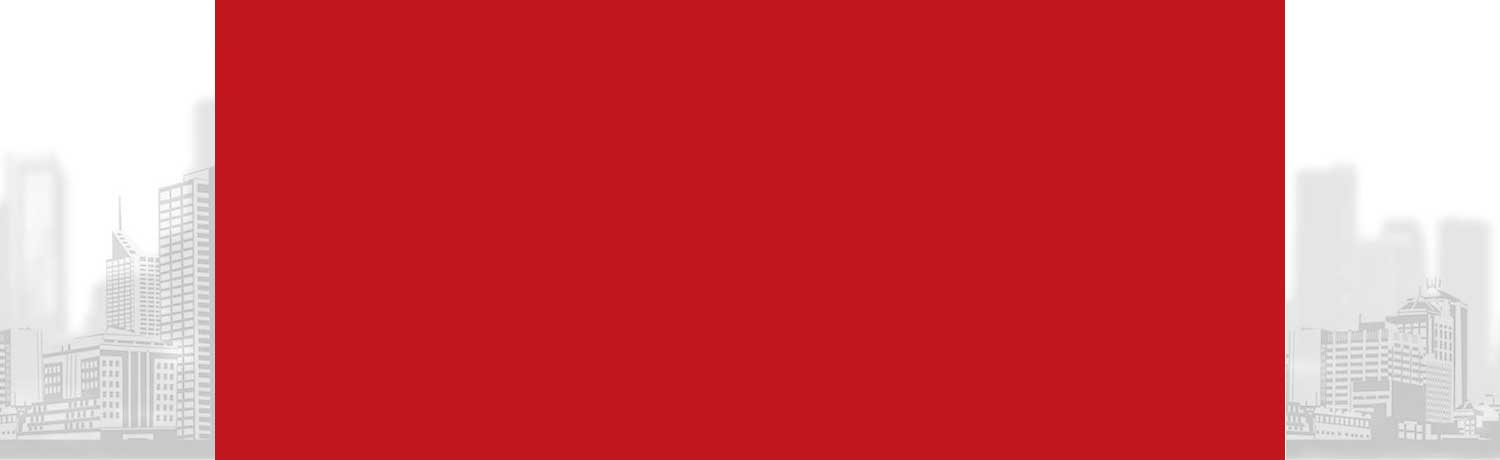
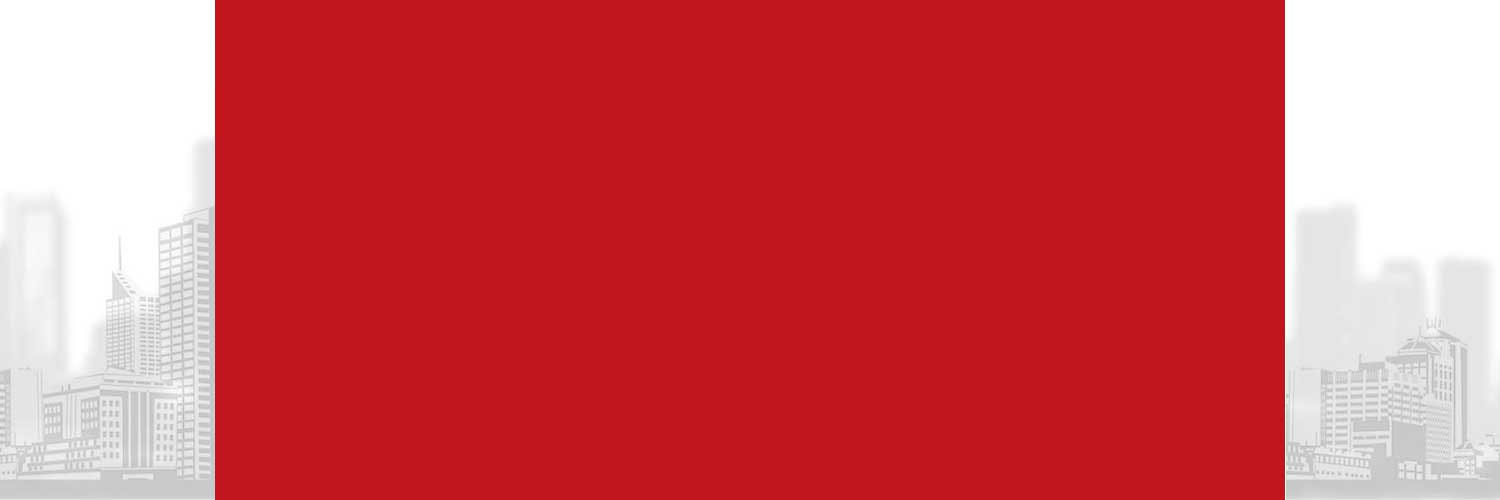
proi

diff --git a/public/themes/default/views/pages/detail.blade.php b/public/themes/default/views/pages/detail.blade.php
@@ -152,6 +152,14 @@
 
     #main-content{
         display: block;
+        max-height: 495px;
+        height:495px;
+        background-position: bottom;
+    }
+
+    #content-block{
+        max-height: 495px;
+        height:495px;
     }
 
     .button-row{
@@ -504,7 +512,7 @@
                 <table class="table" id="fin" style="width:100%;margin-bottom:0px;">
                     <thead>
                         <tr>
-                            <th colspan="2" class="header" style="text-align:left;font-style:italic;font-size:16px;font-weight:normal;">
+                            <th colspan="2" class="header" style="text-align:left;font-style:italic;font-size:14px;font-weight:normal;">
                                 Financial Calculator
                             </th>
                         </tr>
@@ -523,6 +531,8 @@
 
                             $roi = ($netAnnualCashFlow / $prop['listingPrice']) * 100;
                             $roi = round($roi, 1, PHP_ROUND_HALF_UP);
+
+                            $projectedROI = round($prop['projectedROI'] * 100, 1, PHP_ROUND_HALF_UP).'%';
 
                         ?>
                         <tr>
@@ -570,12 +580,54 @@
                         <tr class="yield">
                             <th>Net Rental Return</th><td id="calcROI">{{ $roi }}%</td>
                         </tr>
+
+                        <tr class="yield">
+                            <th>Projected ROI</th>
+                            <td>
+                                <span class="pull-left"  style="font-size:12px;"><input  class="calc" style="width:15px" type="text" value="3" id="prYear"> yrs </span>&nbsp;<span class="pull-left" style="font-size:12px;padding-left: 4px;" ><input  class="calc" style="width:15px" type="text" value="5" id="prRate"> % </span><span class="pull-right" style="line-height:20px;"  id="prYield">{{ $projectedROI }}</span>
+                            </td>
+                        </tr>
+
                     </tbody>
 
                 </table>
+
                 <p class="note">*&nbsp;&nbsp; Approximately to latest current year available<br />** Approximately</p>
 
                 <script type="text/javascript">
+                    /* use ajax for projected ROI */
+
+                    $('#prYear').on('keyup',function(){
+                        ajaxProjected();
+                    });
+
+                    $('#prRate').on('keyup',function(){
+                        ajaxProjected();
+                    });
+
+                    function ajaxProjected(){
+                        var pryear = $('#prYear').val();
+                        var prrate = $('#prRate').val();
+                        var _id = '{{ $prop['_id'] }}';
+                        console.log(prrate);
+                        console.log(pryear);
+                        console.log(_id);
+
+                        $.post(
+                            '{{ URL::to('property/projected') }}',
+                                {
+                                    'year':pryear,
+                                    'rate':prrate,
+                                    '_id':_id
+                                },
+                                function(data){
+                                    if(data.result == 'OK'){
+                                        $('#prYield').html(data.froi);
+                                    }
+                                },'json'
+                            );
+
+                    }
 
                     Number.prototype.formatMoney = function(c, d, t){
                         var n = this,

diff --git a/app/controllers/PropertyController.php b/app/controllers/PropertyController.php
@@ -782,6 +782,20 @@ class PropertyController extends BaseController {
                 $page['leaseStartDate'] = false;
             }
 
+            $rental = (double)$page['monthlyRental'] * 12;
+            $price = (double)$page['listingPrice'];
+            $year = 3;
+
+            $roi = 0;
+            $initprice = $price;
+            $counter = $year;
+            $result = 0;
+            $pct = 5;
+
+            $projected = px($price, $pct, $year,$initprice,$rental ,$roi, $counter, $result);
+
+            $page['projectedROI'] = $result;
+
         }else{
             $page = null;
         }
@@ -800,6 +814,33 @@ class PropertyController extends BaseController {
         return View::make('pages.detail')
             ->with('backlink',$backlink)
             ->with('prop',$page);
+    }
+
+    public function postProjected()
+    {
+        $in = Input::get();
+
+        $_id = $in['_id'];
+
+        $prop = Property::find($_id)->toArray();
+
+        $rental = (double)$prop['monthlyRental'] * 12;
+        $price = (double)$prop['listingPrice'];
+        $year = $in['year'];
+
+        $roi = 0;
+        $initprice = $price;
+        $counter = $year;
+        $result = 0;
+        $pct = $in['rate'];
+
+        $projected = px($price, $pct, $year,$initprice,$rental ,$roi, $counter, $result);
+
+        $froi = round($result * 100, 1, PHP_ROUND_HALF_UP).'%';
+
+        return Response::json( array('result'=>'OK', 'roi'=>$result, 'froi'=>$froi ) );
+
+
     }
 
     public function getBuy($id = null){

diff --git a/app/routes.php b/app/routes.php
@@ -261,12 +261,13 @@ Route::post('brochure/mail/{id}',function($id){
                     ->setPaper($tmpl['paper-size'])
                     ->output();
 
+                    $todate = date('dmYHis',time());
 
-    file_put_contents(public_path().'/storage/pdf/'.$prop['propertyId'].'.pdf', $brochurepdf);
+    file_put_contents(public_path().'/storage/pdf/'.$prop['propertyId'].'_'.$todate.'.pdf', $brochurepdf);
 
     //$mailcontent = View::make('emails.brochure')->with('prop',$prop)->render();
 
-    Mail::send('emails.brochure',$prop, function($message) use ($prop, &$prop){
+    Mail::send('emails.brochure',$prop, function($message) use ($prop, &$prop, $todate){
         $to = Input::get('to');
         $tos = explode(',', $to);
         if(is_array($tos) && count($tos) > 1){
@@ -281,7 +282,7 @@ Route::post('brochure/mail/{id}',function($id){
 
         $message->cc('support@propinvestorsalliance.com');
 
-        $message->attach(public_path().'/storage/pdf/'.$prop['propertyId'].'.pdf');
+        $message->attach(public_path().'/storage/pdf/'.$prop['propertyId'].'_'.$todate.'.pdf');
     });
 
     $p = json_encode(array(

diff --git a/public/themes/default/views/pages/faq.blade.php b/public/themes/default/views/pages/faq.blade.php
@@ -3,7 +3,7 @@
 @section('content')
 
 <div id="content-block">
-    <div id="content-container" class="shadow" style="margin-bottom: 6px;" >
+    <div id="content-container" class="shadows" style="margin-bottom: 6px;" >
 
 
 <div class="row">
